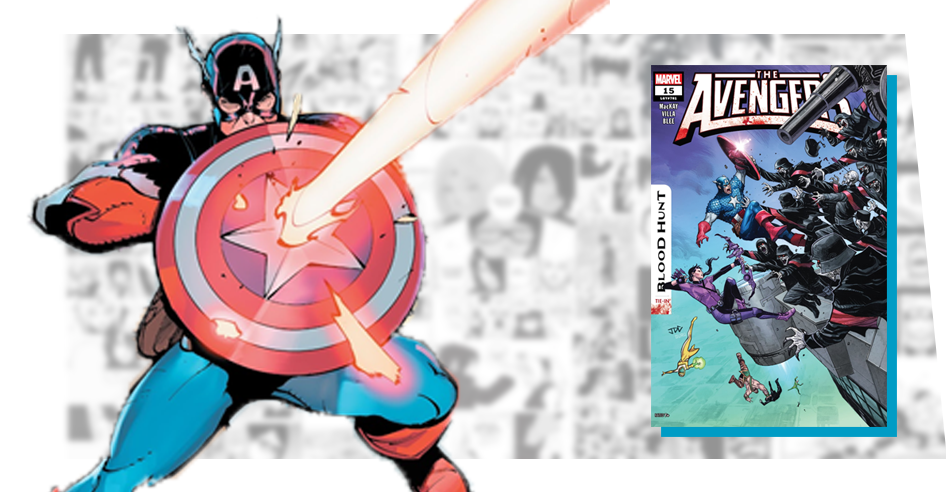
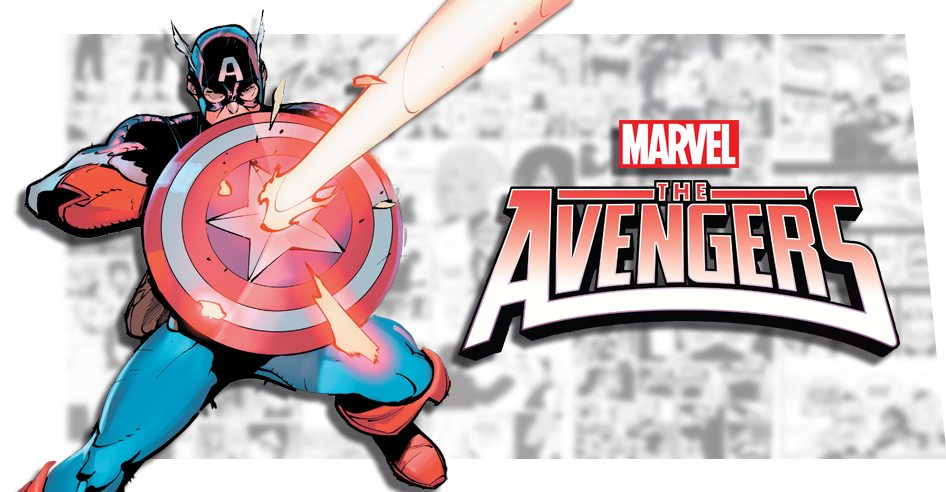
Imagem de carrossel alterada novamente, e pequenas alterações nos ícones e inputs do header

diff --git a/src/components/carousel/index.tsx b/src/components/carousel/index.tsx
@@ -2,15 +2,16 @@ import "./index.css";
 import Marvel from "../../images/marvel.webp";
 import DC from "../../images/dc.webp";
 import Carousel01 from "../../images/carousel-1.webp";
+import { Link } from "react-router-dom";
 
 export default function Carousel() {
   return (
     <div id="carousel-wrapper">
       <div className="XLsqr">
         <span>
-          <img src={Carousel01} alt="" />
+          <img id="principal" src={Carousel01} alt="" />
         </span>
-        <a className="carouselLinks" href="#"></a>
+        <Link to="/The-Avengers" className="carouselLinks"></Link>
       </div>
       <div className="Ssqrs">
         <div className="Ssqr">

diff --git a/src/components/header/header.tsx b/src/components/header/header.tsx
@@ -1,12 +1,20 @@
+// Importações Bibliotecas
 import FeatherIcon from "feather-icons-react";
+import { Link } from "react-router-dom";
+
+// Importações CSS
 import "./header.css";
+
+// Importações Imagens
 import logo from "../../images/logo.webp";
 
 export default function Header() {
   return (
     <div className="header">
       <div>
-        <img id="logo" src={logo} alt="" />
+        <Link to="/">
+          <img id="logo" src={logo} alt="" />
+        </Link>
       </div>
       <div>
         <input type="text" placeholder="Pesquisar" />

diff --git a/src/components/footer/index.tsx b/src/components/footer/index.tsx
@@ -1,3 +1,6 @@
+// Import de bibliotecas
+import { Link } from "react-router-dom";
+
 import "./index.css";
 
 export default function Footer() {
@@ -5,7 +8,9 @@ export default function Footer() {
     <div id="foo-wrapper">
       <div className="left">
         <div className="app-logo">
-          <h3>Sudo-Comics</h3>
+          <Link to="/" style={{ textDecoration: "none", color: "#000" }}>
+            <h3>Sudo-Comics</h3>
+          </Link>
         </div>
         <p>
           Leia seus quadrinhos e mangás favoritos com o <span>Sudo Comics</span>

diff --git a/src/components/header/header.css b/src/components/header/header.css
@@ -43,11 +43,18 @@ input {
   color: white;
   font-size: 16px;
   padding-right: 50px;
-}
-
-input:focus {
   outline: none;
 }
+
+input:hover,
+input:focus {
+  transition: outline-color 0.6s;
+  color: black;
+  outline-style: solid;
+  outline-width: 1px;
+  outline-color: #ff0;
+}
+
 input::placeholder {
   color: #b7b7b7;
 }
@@ -59,7 +66,9 @@ input::placeholder {
 svg {
   color: #fff;
 }
+
 .icon:hover {
+  transition: background-color 0.2s;
   background-color: #b7b7b75e;
   border-radius: 10px;
 }

diff --git a/src/components/footer/index.css b/src/components/footer/index.css
@@ -51,3 +51,7 @@ p > span {
   font-weight: bold;
   color: yellow;
 }
+
+h3:visited {
+  text-decoration: none;
+}
